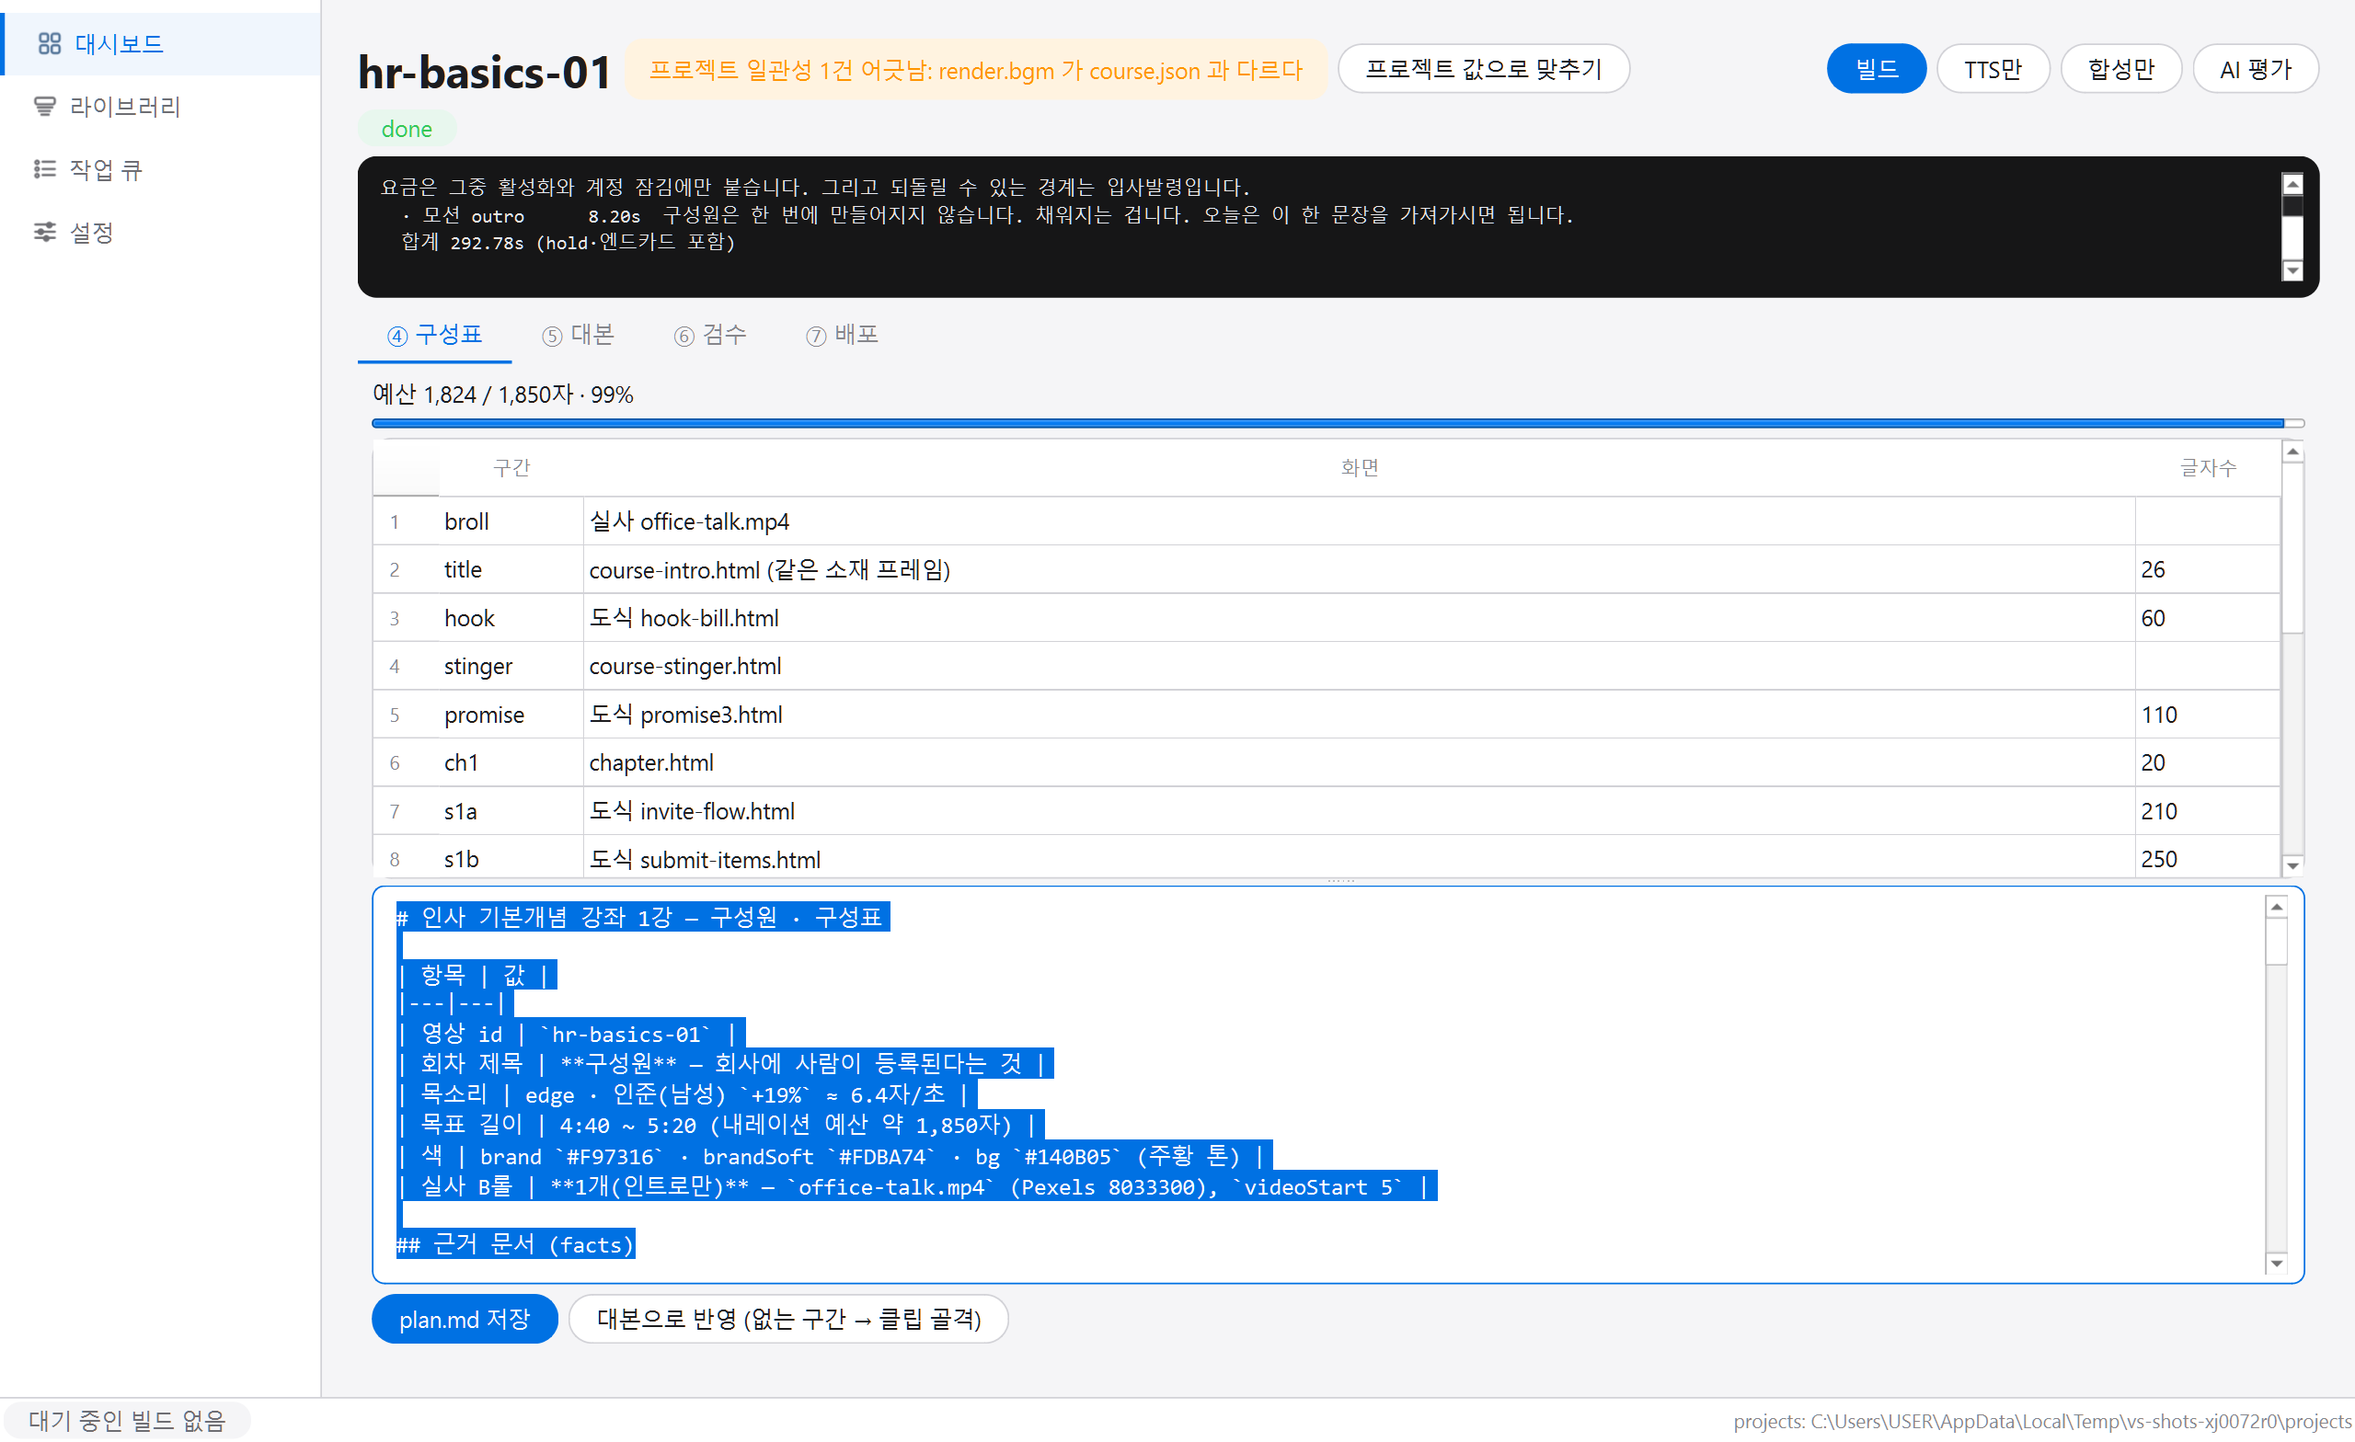
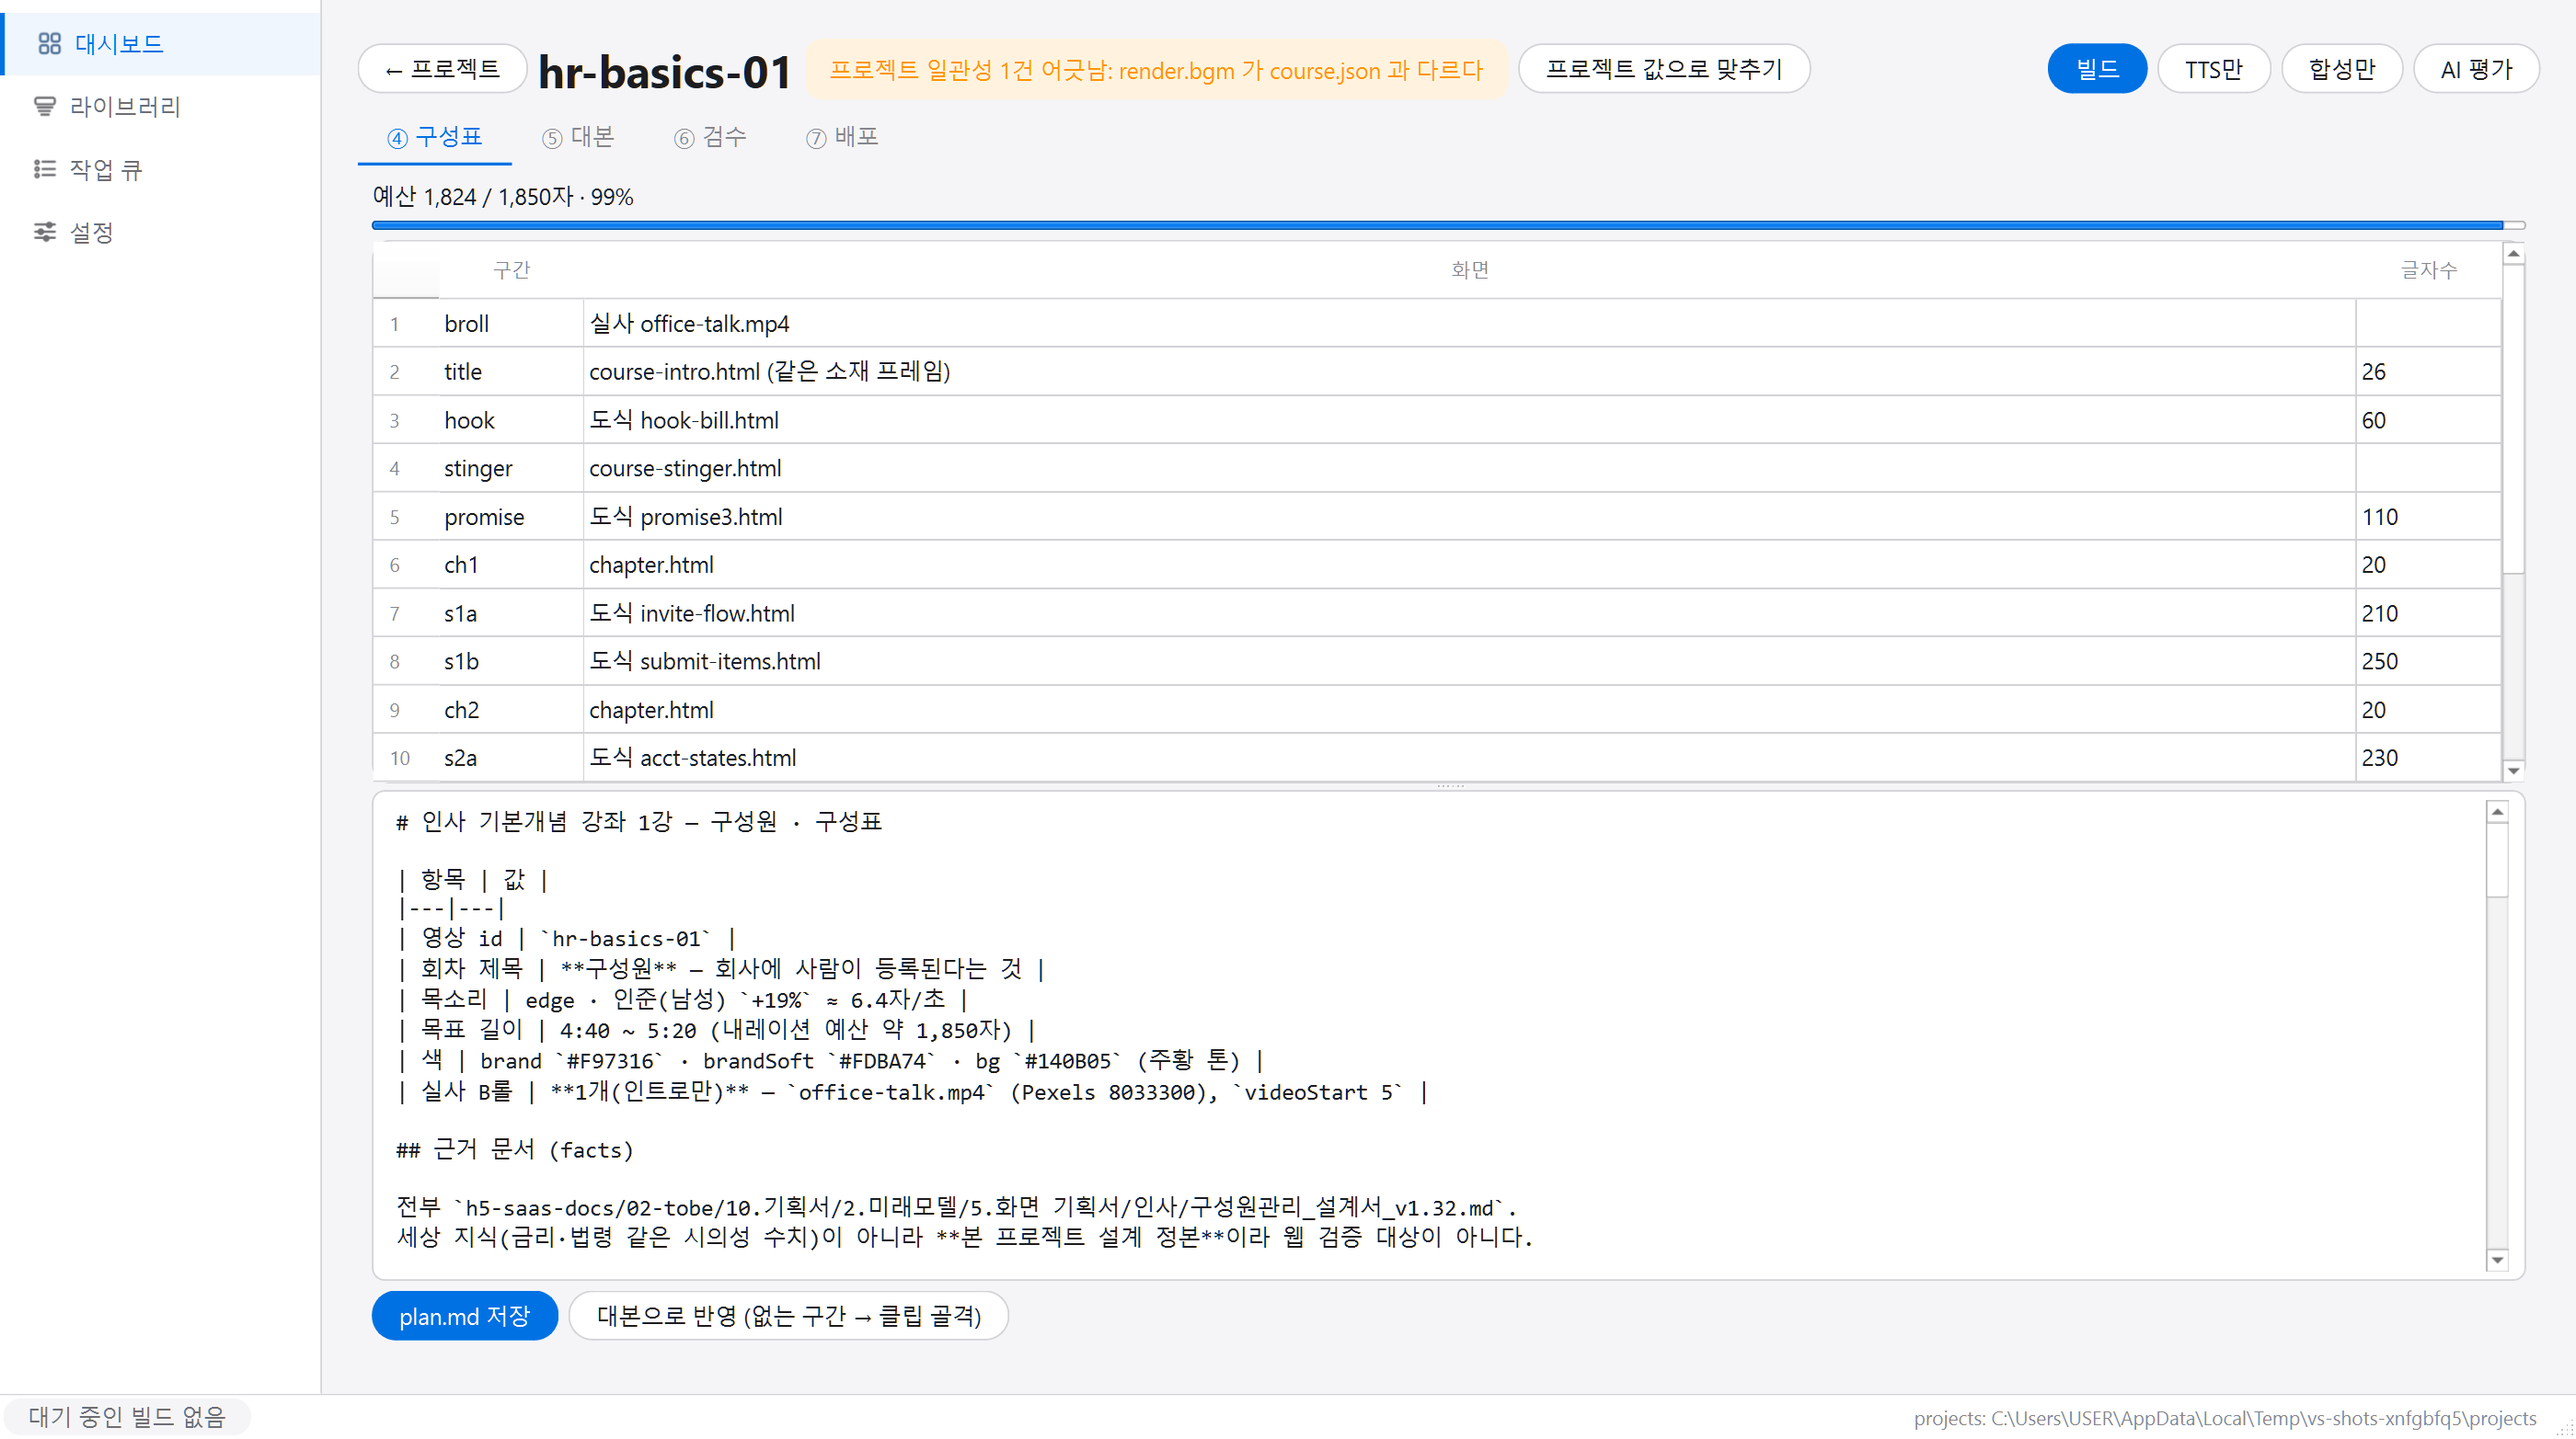
영상 화면에 [← 프로젝트], 프로젝트 화면에 [← 대시보드]
영상 화면의 탭이 ④부터 시작하는데 ①②③(프로젝트 설정·영상 목록·브랜드 킷)으로
돌아갈 길이 화면에 없었다 (사용자 지적 — 09 G8: 내가 어디 있는지·어디로 가는지).
좌측 내비 대시보드를 거쳐야만 했다.

단일 영상(부모 프로젝트 없음)이면 [← 프로젝트]는 대시보드로 간다.

diff --git a/app/main_window.py b/app/main_window.py
@@ -64,6 +64,8 @@ class MainWindow(QMainWindow):
         self.dashboard.open_course.connect(self.show_course)
         self.dashboard.open_episode.connect(self.show_episode)
         self.course_page.open_episode.connect(self.show_episode)
+        self.episode_page.back.connect(self._back_to_course)
+        self.course_page.back_btn.clicked.connect(lambda: self._nav_to(0) or self.nav.setCurrentRow(0))
 
         # 하단 상태바 — 빌드 잡 칩 (전 페이지 공통, 07 재편 결정)
         bar = QStatusBar()
@@ -106,6 +108,15 @@ class MainWindow(QMainWindow):
         self.course_page.load(cid)
         self.stack.setCurrentWidget(self.course_page)
         self._mark_nav_home()
+
+    def _back_to_course(self, cid: str) -> None:
+        """[← 프로젝트] — 부모 프로젝트가 없으면(단일 영상) 대시보드로."""
+        from core import env
+
+        if (env.projects_root() / cid / "course.json").exists():
+            self.show_course(cid)
+        else:
+            self.nav.setCurrentRow(0)
 
     def show_episode(self, eid: str) -> None:
         self.episode_page.load(eid)

diff --git a/app/pages/course.py b/app/pages/course.py
@@ -79,6 +79,9 @@ class CoursePage(QWidget):
         outer = QVBoxLayout(self)
         outer.setContentsMargins(theme.PAGE_PAD, 24, theme.PAGE_PAD, 24)
         head = QHBoxLayout()
+        self.back_btn = QPushButton("← 대시보드")
+        self.back_btn.setFlat(True)
+        head.addWidget(self.back_btn)
         self.title = QLabel("")
         self.title.setObjectName("pageTitle")
         head.addWidget(self.title)
